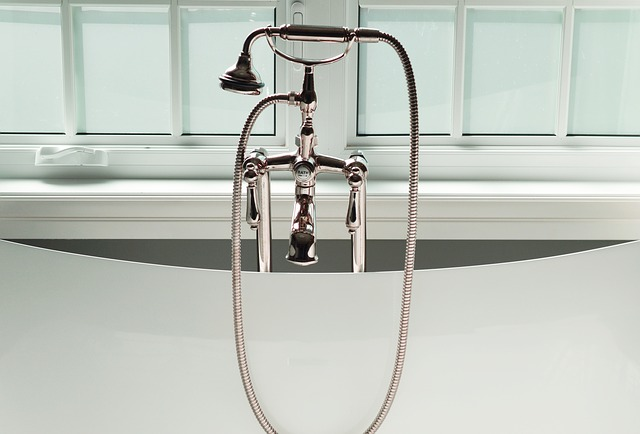
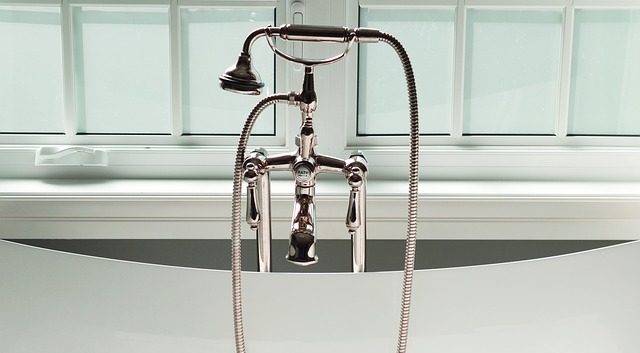
add hover red img

diff --git a/templates/index.html b/templates/index.html
@@ -9,6 +9,7 @@
     <script src="../static/jQuery 3.3.1.js"></script>
     <script src="../static/popper.min.js"></script>
     <script src="../static/bootstrap.min.js"></script>
+    <link href="https://fonts.googleapis.com/css?family=Caveat" rel="stylesheet">
     <link rel="stylesheet" href="../static/style.css">
     <script src="../static/js.js"></script>
     <title>сантехработы</title>
@@ -74,13 +75,15 @@
 
 
 
-<div class="none">
   <div class="row none">
-    <div class="col-md-6"><img class="img-fluid" src="../static/img/basin-1502544_640.jpg" alt=""></div>
-    <div class="col-md-6"><img class="img-fluid" src="../static/img/tap-1937432_640.jpg" alt=""></div>
-    <div class="col-md-6"><img class="img-fluid" src="../static/img/drain-2454608_640.jpg" alt=""></div>
-    <div class="col-md-6"><img class="img-fluid" src="../static/img/radiator-250558_640.jpg" alt=""></div>
+    <div class="col-md-6"><img class="" src="../static/img/basin-1502544_640.jpg" alt=""><div class="red"><a href="#">водопровод</a></div></div>
+    <div class="col-md-6"><img class="" src="../static/img/tap-1937432_640.jpg" alt=""><div class="red"><a href="#">установка приборов</a></div></div>
+    <div class="col-md-6"><img class="" src="../static/img/drain-2454608_640.jpg" alt=""><div class="red"><a href="">канализация</a></div></div>
+    <div class="col-md-6"><img class="" src="../static/img/radiator-250558_640.jpg" alt=""><div class="red"><a href="">замена батарей</a></div></div>
   </div>
-</div>
+
+<footer><div class="container">
+<p>Сантехработы Харьков 2018</p></div>
+</footer>
 </body>
 </html>

diff --git a/static/style.css b/static/style.css
@@ -1,3 +1,5 @@
+
+
 #carouselExampleControls{
     margin-top: 30px;
 }
@@ -7,9 +9,41 @@
 .none div{
     margin: 0;
     padding: 0%;
+    /* position: relative; */
 }
 .none img{
     margin: 0%;
     padding: 0%;
     width: 100%;
+}
+.red{
+    position: absolute;
+    top: 0%;
+    left: 0;
+    width: 100%;
+    height: 100%;
+    background: rgba(255, 0, 0, 0.15);
+    display: none;
+}
+.red a{
+    text-decoration: none;
+    font-size: 72px;
+    font-family: 'Caveat', cursive;
+    color: red;
+    display: block;
+    width: 100%;
+    height: 100%;
+    display: flex;
+    justify-content: center;
+    align-items: center;
+}
+.none div:hover .red{
+    display: block;
+}
+
+footer{
+    height: 60px;
+    background-color: gray;
+    display: flex;
+    align-items: center;
 }
